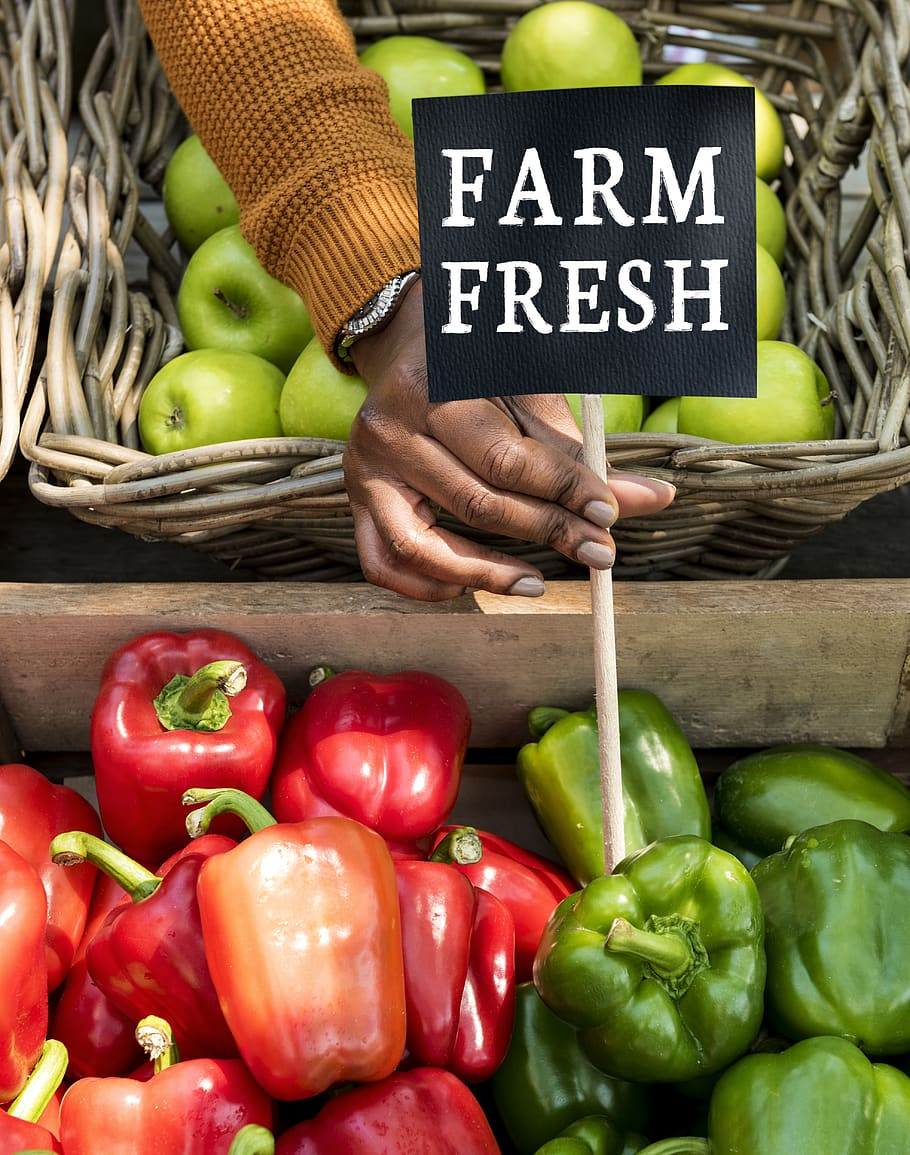
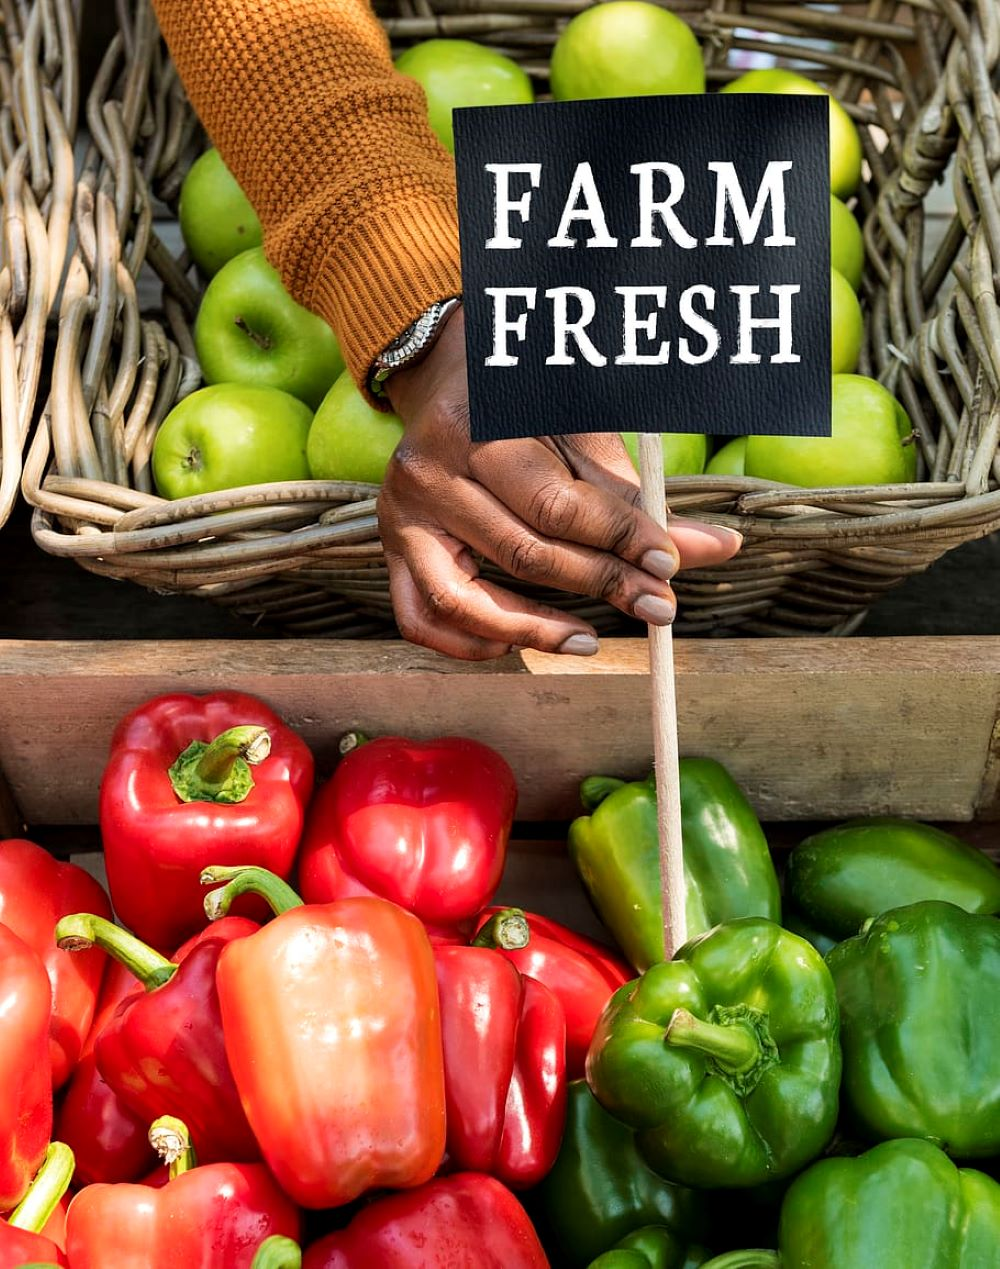
html and css
updated sign up page, some images and the href on all pages

diff --git a/pages/about.html b/pages/about.html
@@ -95,9 +95,9 @@
           class="card-img"
           alt="..."
         />
-        <div class="card-img-overlay">
-          <h5 class="card-title">Carter's Bell Pepper Farm</h5>
-          <p class="card-text" style="height: ;">
+        <div class="card-img-overlay about-hero">
+          <h5 class="card-title" style="text-align: center;">Carter's Bell Pepper Farm</h5>
+          <p class="card-text" style="text-align:center; font-size:13px;">
             Carter Bell had always been a fan of bell peppers. As a child, his
             mother would make delicious stuffed bell peppers for dinner, and he
             would always ask for seconds. When he grew up, he decided to pursue
@@ -114,9 +114,9 @@
     <section>
       <!-- content for first section -->
       <div class="card text-center">
-        <div class="card-header">Featured</div>
+        <div class="card-header">Highlights</div>
         <div class="card-body">
-          <h5 class="card-title">Special title treatment</h5>
+          <h5 class="card-title">Why Buy Carter Bell Peppers</h5>
           <p class="card-text">
             Carter worked hard day and night to ensure that his farm would be
             the best in the region. He took care of his crops with utmost
@@ -170,7 +170,7 @@
           </div>
         </div>
         <div class="card">
-          <img class="img-fluid" src="../images/value.jpg" class="card-img-top" alt="..." />
+          <img class="img-fluid" src="../images/fcp1.jpg" class="card-img-top" alt="..." />
           <div class="card-body">
             <h5 class="card-title">Value</h5>
             <p class="card-text">
@@ -184,7 +184,7 @@
           </div>
         </div>
         <div class="card">
-          <img class="img-fluid" src="../images/The-Chemistry-of-Bell-Peppers.webp" class="card-img-top" alt="..." />
+          <img class="img-fluid" src="../images/The-Chemistry-of-Bell-Peppers.jpg" class="card-img-top" alt="..." />
           <div class="card-body">
             <h5 class="card-title">Vision</h5>
             <p class="card-text">
@@ -208,27 +208,27 @@
           <div class="row">
             <div class="col-md-6">
               <ul class="list-unstyled">
-                <li><a href="#">Home</a></li>
-                <li><a href="#">About</a></li>
-                <li><a href="#">Services</a></li>
-                <li><a href="#">Contact</a></li>
+                <li><a href="../images/">Home</a></li>
+                <li><a href="about.html">About</a></li>
+                <li><a href="gallery.html">Services</a></li>
+                <li><a href="about.html">Contact</a></li>
               </ul>
             </div>
             <div class="col-md-6">
               <h5>Connect with Us</h5>
               <ul class="list-unstyled">
                 <li>
-                  <a href="#" style="color: black"
+                  <a href="login.html" style="color: black"
                     ><i class="bi bi-facebook"></i
                   ></a>
                 </li>
                 <li>
-                  <a href="#" style="color: black"
+                  <a href="login.html" style="color: black"
                     ><i class="bi bi-twitter"></i
                   ></a>
                 </li>
                 <li>
-                  <a href="#" style="color: black"
+                  <a href="login.html" style="color: black"
                     ><i class="bi bi-instagram"></i
                   ></a>
                 </li>

diff --git a/pages/signup.html b/pages/signup.html
@@ -1,0 +1,51 @@
+<!DOCTYPE html>
+<html lang="en">
+  <head>
+    <meta charset="UTF-8" />
+    <meta name="viewport" content="width=device-width, initial-scale=1.0" />
+    <link
+      href="https://cdn.jsdelivr.net/npm/bootstrap@5.3.3/dist/css/bootstrap.min.css"
+      rel="stylesheet"
+      integrity="sha384-QWTKZyjpPEjISv5WaRU9OFeRpok6YctnYmDr5pNlyT2bRjXh0JMhjY6hW+ALEwIH"
+      crossorigin="anonymous"
+    />
+    <link
+      rel="stylesheet"
+      href="https://cdn.jsdelivr.net/npm/bootstrap-icons@1.3.0/font/bootstrap-icons.css"
+    />
+    <link
+      href="https://cdn.jsdelivr.net/npm/bootstrap@5.3.3/dist/css/bootstrap.min.css"
+      rel="stylesheet"
+    />
+   
+    <link rel="stylesheet" href="../css/style.css" />
+    <link rel="stylesheet" href="../css/signup.css">
+    <link rel="shortcut icon" href="../images/fcp2.avif" type="image/x-icon" />
+
+    <title>Carter's Bell Peppers</title>
+  </head>
+  <body>
+    <div class="bg-img form d-flex justify-content-center align-items-center">
+      <form action="/action_page.php" class="container">
+        <div class="wrapper">
+        <h1>Sign Up</h1>
+    
+        <label for="fullname"><b>Full Name</b></label>
+        <input type="text" placeholder="Enter Full Name" name="fullname" required>
+
+        <label for="email"><b>Email</b></label>
+        <input type="text" placeholder="Enter Email" name="email" required>
+    
+        <label for="psw"><b>Password</b></label>
+        <input type="password" placeholder="Enter Password" name="psw" required>
+    
+        <p>Have an account yet? <a href="../pages/login.html">Sign in Now</a></p>
+
+        <button type="submit" class="btn">Submit</button>
+      </div>
+      </form>
+    </div>
+    
+    <script src="https://cdn.jsdelivr.net/npm/bootstrap@5.3.3/dist/js/bootstrap.bundle.min.js"></script>
+  </body>
+</html>

diff --git a/pages/contact.html b/pages/contact.html
@@ -137,27 +137,27 @@
           <div class="row">
             <div class="col-md-6">
               <ul class="list-unstyled">
-                <li><a href="#">Home</a></li>
-                <li><a href="#">About</a></li>
-                <li><a href="#">Services</a></li>
-                <li><a href="#">Contact</a></li>
+                <li><a href="../index.html">Home</a></li>
+                <li><a href="about.html">About</a></li>
+                <li><a href="gallery.html">Services</a></li>
+                <li><a href="contact.html">Contact</a></li>
               </ul>
             </div>
             <div class="col-md-6">
               <h5>Connect with Us</h5>
               <ul class="list-unstyled">
                 <li>
-                  <a href="#" style="color: black"
+                  <a href="login.html" style="color: black"
                     ><i class="bi bi-facebook"></i
                   ></a>
                 </li>
                 <li>
-                  <a href="#" style="color: black"
+                  <a href="login.html" style="color: black"
                     ><i class="bi bi-twitter"></i
                   ></a>
                 </li>
                 <li>
-                  <a href="#" style="color: black"
+                  <a href="login.html" style="color: black"
                     ><i class="bi bi-instagram"></i
                   ></a>
                 </li>

diff --git a/css/signup.css b/css/signup.css
@@ -1,0 +1,59 @@
+body, html {
+    height: 100%;
+  }
+  
+  * {
+    box-sizing: border-box;
+  }
+.bg-img {
+    /* The image used */
+    background-image: url("../images/into-water.avif");
+  
+    /* Control the height of the image */
+    height: 100%;
+  
+    /* Center and scale the image nicely */
+    background-position: center;
+    background-repeat: no-repeat;
+    background-size: cover;
+    position: relative;
+  }
+  
+  /* Add styles to the form container */
+  .container {
+    position: absolute;
+    right: 0;
+    margin: 20px;
+    max-width: 300px;
+    padding: 16px;
+    background-color: white;
+  }
+  
+  /* Full-width input fields */
+    input[type=text], input[type=password] {
+    width: 100%;
+    padding: 15px;
+    margin: 5px 0 22px 0;
+    border: none;
+    background: #f1f1f1;
+  }
+  
+  input[type=text]:focus, input[type=password]:focus {
+    background-color: #ddd;
+    outline: none;
+  }
+  
+  /* Set a style for the submit button */
+  .btn {
+    background-color: #04AA6D;
+    color: white;
+    padding: 16px 20px;
+    border: none;
+    cursor: pointer;
+    width: 100%;
+    opacity: 0.9;
+  }
+  
+  .btn:hover {
+    opacity: 1;
+  }

diff --git a/pages/login.html b/pages/login.html
@@ -36,7 +36,7 @@
         <label for="psw"><b>Password</b></label>
         <input type="password" placeholder="Enter Password" name="psw" required>
     
-        <p>Don't have an account yet? <a href="signup.html">Sign Up Now</a></p>
+        <p>Don't have an account yet? <a href="../pages/signup.html">Sign Up Now</a></p>
 
         <button type="submit" class="btn">Login</button>
       </div>

diff --git a/css/style.css b/css/style.css
@@ -77,6 +77,10 @@ body {
     height: auto;
   } }
 
+  .about-section {
+    display:;
+  }
+
 /* START OF LOGIN HTML NOTES */
 .container {
  background-color: transparent !important;
